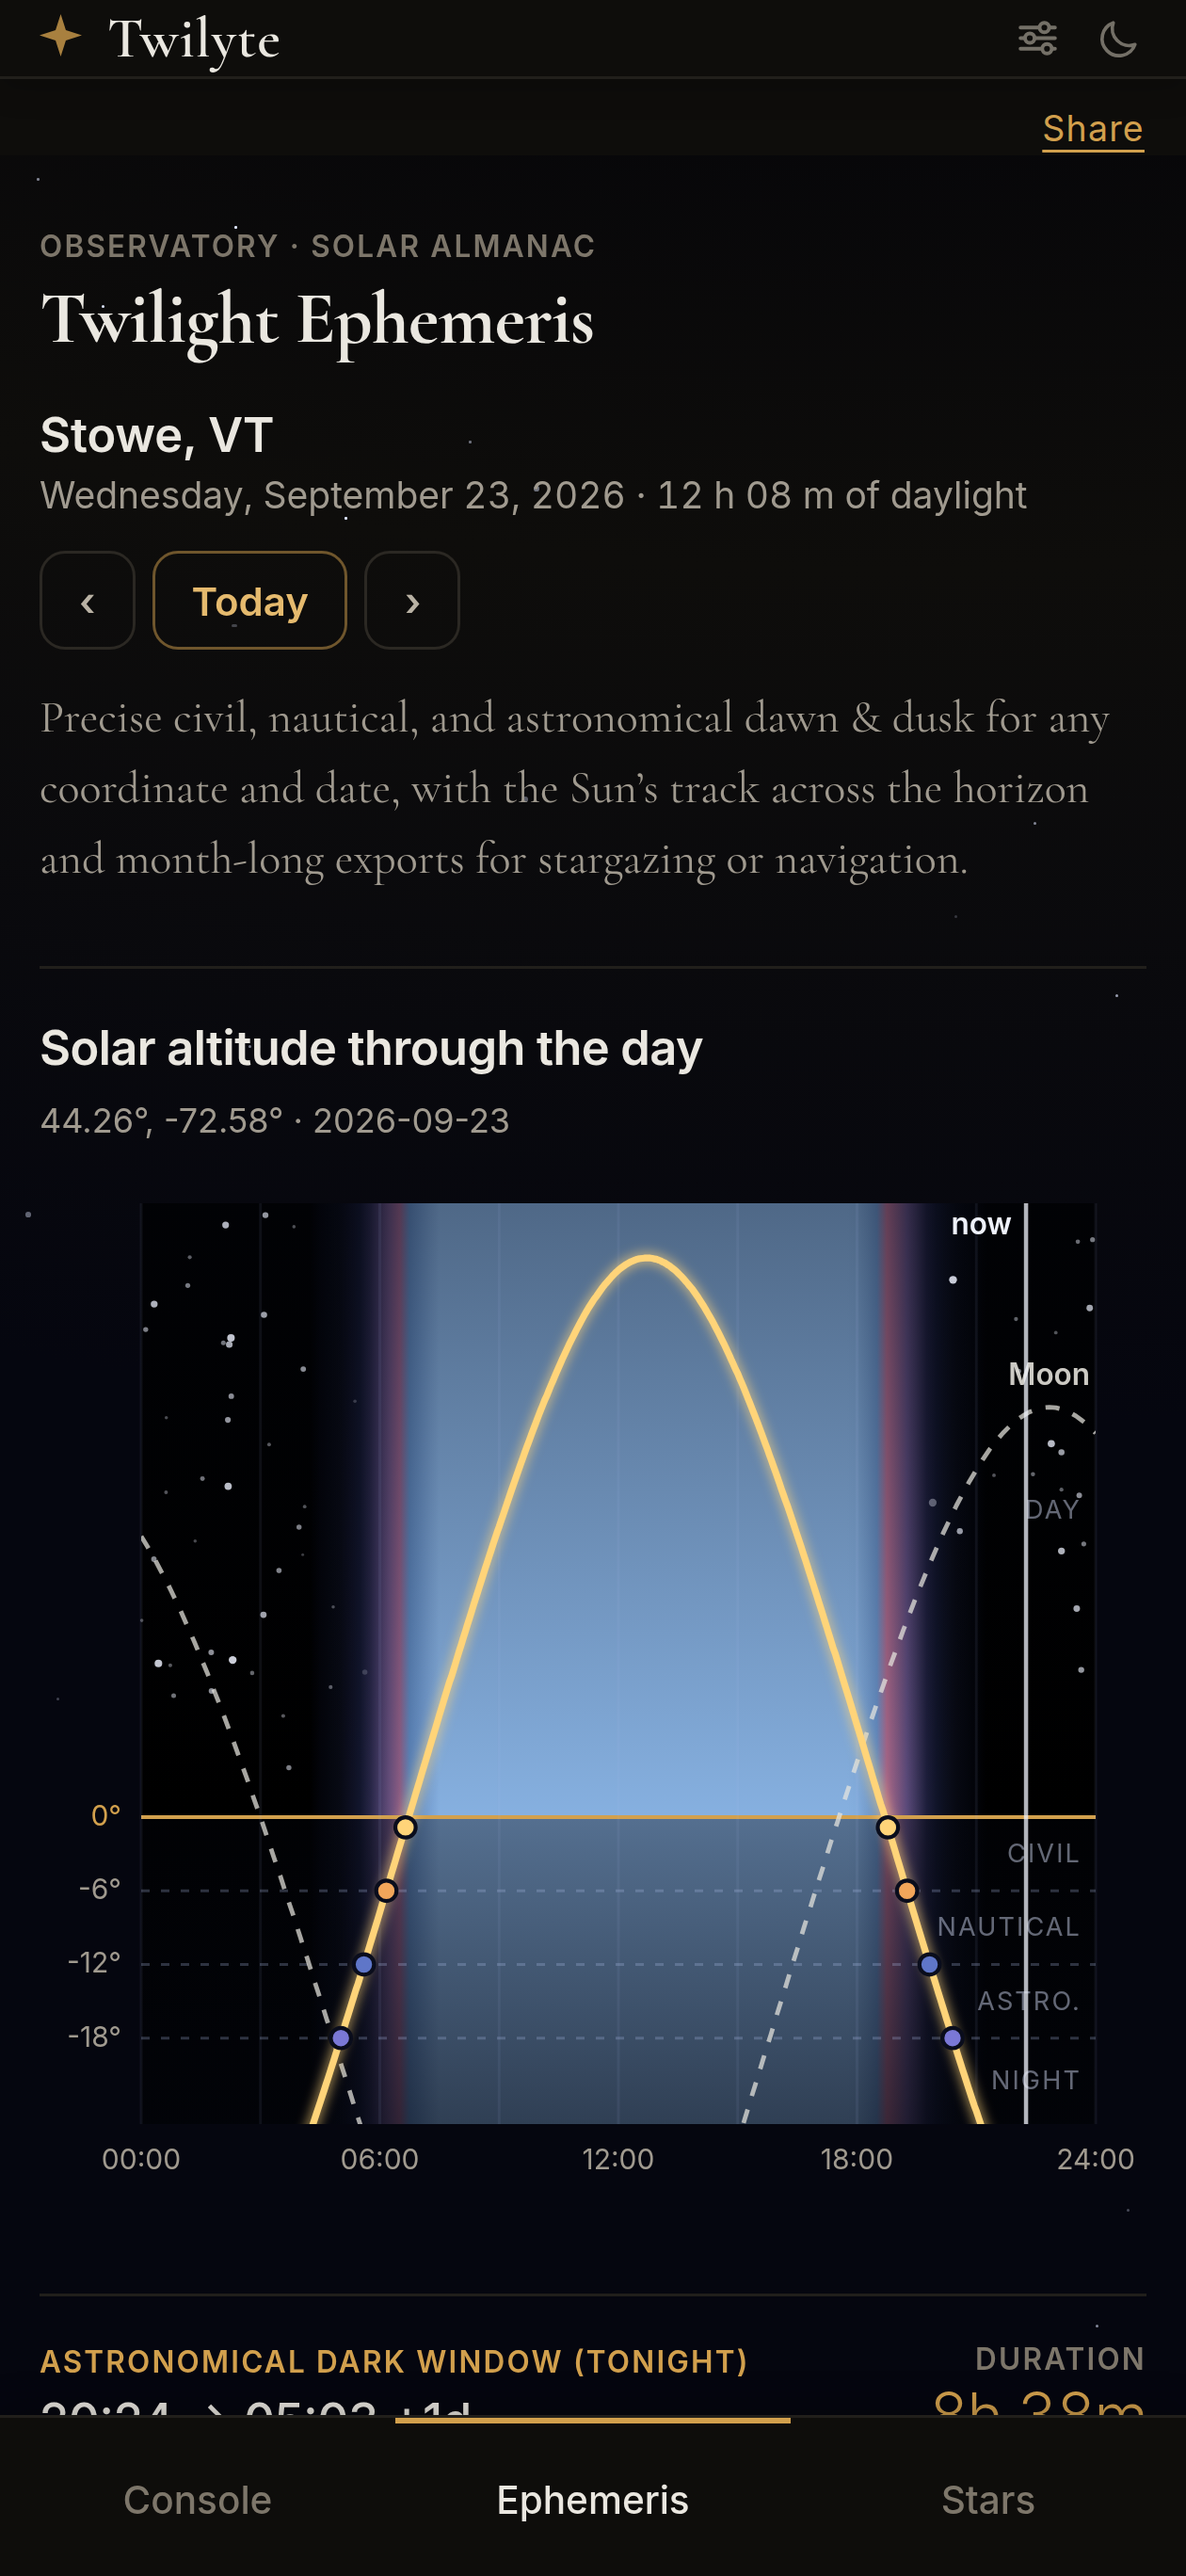
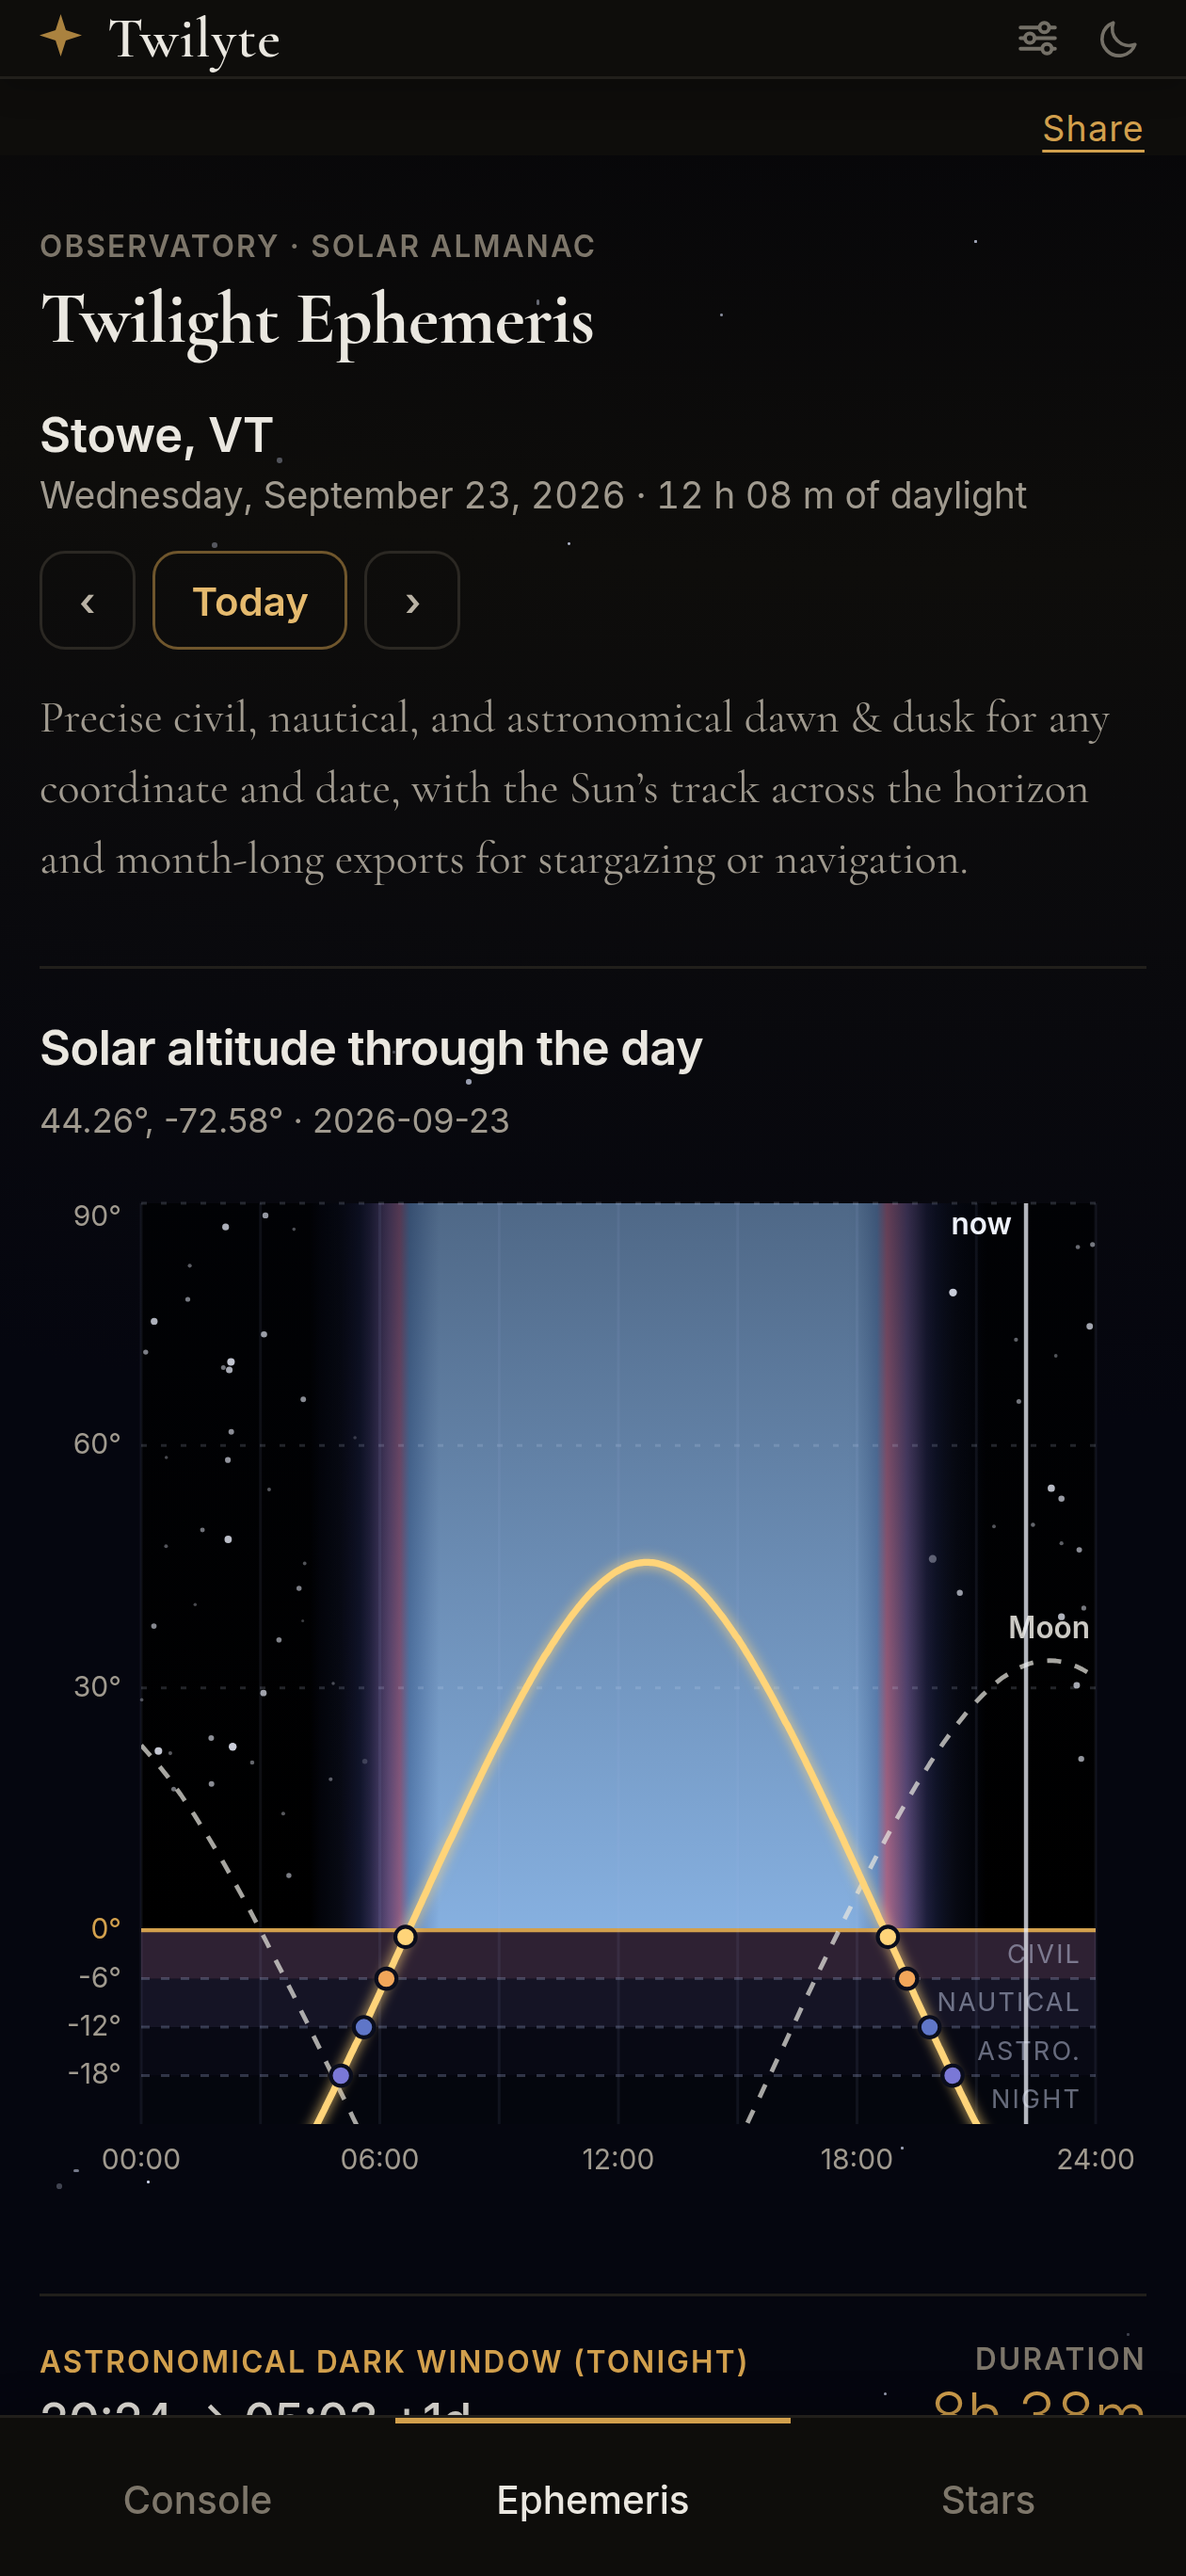
Ephemeris: put the solar altitude chart on a fixed scale
The chart's top edge was the day's highest solar altitude plus 4 degrees,
so the curve always rose to nearly touch it. A 20-degree December noon
looked as high as a 70-degree June one, and with no labels above 0 there
was nothing on the chart to say otherwise. The owner found the curve
"unusual or exaggerated", and that is the reason. Behind the curve, the
painted sky (the sky's colour at each moment of the day) filled the full
height, below the horizon too, so dawn and dusk read as tall vertical
stripes.

- The altitude scale is now fixed from -24 to 90 degrees (overhead), with
  faint 30/60/90 gridlines and labels. At Stowe, VT (44N) the equinox Sun
  now peaks visibly at about 46 degrees and the winter solstice Sun at
  about 22, where before both filled the chart.
- The painted sky stops at the horizon. Below it is dark ground, with the
  civil / nautical / astronomical / night bands faintly tinted so their
  labels name something; the separate "Day" band label is dropped, since
  the sky above the horizon is labelled by its colour and the scale.
- Nothing about the numbers changes: the curve, markers, Moon track, "now"
  line, hover readout and times are the same.

Checked in Playwright at 390 and 1280 px wide on 2026-09-23 and on
2026-12-21. 211/211 tests pass; verify-build passes. The Ephemeris store
screenshots (iPhone, iPad, Android) are retaken. BUILD and sw.js CACHE ->
v89.

Claude-Session: https://claude.ai/code/session_01N1tCvpNFXVA1dYKhp5veEo

diff --git a/index.html b/index.html
@@ -2,7 +2,7 @@
 <html lang="en">
 <head>
 <meta charset="utf-8" />
-<meta http-equiv="Content-Security-Policy" content="default-src 'self'; script-src 'self' 'sha256-LtvvfGVmfcoHWp4+TD4Lt7CBdUP12N0xoz2a4TCIlgA=' 'sha256-2WFykE7wvy9rfb6MuxdEk17+inylzAieA3wTF6WO6oc=' 'sha256-5iQLZZarga65DX0f9Sd0iyRmfHgUzB8mc6W/19dA1m0=' 'sha256-Ecsw/9Irpja/rCdVczO9GKazDgaWBiSg7CtcW5+nCgs=' 'sha256-JAy4ooiqCu/2GUX/T0oycyxLZ4vrWZ1Xwxtepo5wmOg='; style-src 'self' 'unsafe-inline'; img-src 'self' data:; font-src 'self'; connect-src 'self' https://geocoding-api.open-meteo.com https://api.open-meteo.com https://twilight-counter.ken-b39.workers.dev; manifest-src 'self'; worker-src 'self'; base-uri 'self'; form-action 'self'; object-src 'none'; upgrade-insecure-requests" />
+<meta http-equiv="Content-Security-Policy" content="default-src 'self'; script-src 'self' 'sha256-LtvvfGVmfcoHWp4+TD4Lt7CBdUP12N0xoz2a4TCIlgA=' 'sha256-2WFykE7wvy9rfb6MuxdEk17+inylzAieA3wTF6WO6oc=' 'sha256-5iQLZZarga65DX0f9Sd0iyRmfHgUzB8mc6W/19dA1m0=' 'sha256-nMKAH4cWXwed/6jUXclqRht6yX1LUjShImqOmK722mU=' 'sha256-JAy4ooiqCu/2GUX/T0oycyxLZ4vrWZ1Xwxtepo5wmOg='; style-src 'self' 'unsafe-inline'; img-src 'self' data:; font-src 'self'; connect-src 'self' https://geocoding-api.open-meteo.com https://api.open-meteo.com https://twilight-counter.ken-b39.workers.dev; manifest-src 'self'; worker-src 'self'; base-uri 'self'; form-action 'self'; object-src 'none'; upgrade-insecure-requests" />
 <meta name="viewport" content="width=device-width, initial-scale=1, viewport-fit=cover" />
 <meta name="theme-color" content="#070a14" />
 <title>Twilyte — Live Sky Dashboard & Twilight Ephemeris</title>
@@ -1595,7 +1595,7 @@ const C = {
 // Bumped with sw.js's CACHE, so a Sensor details screenshot says which build
 // it came from. It sat at v56 for weeks while the app moved on, which made
 // every field report ambiguous.
-const BUILD = "v88";
+const BUILD = "v89";
 const PAGE_BG = "radial-gradient(1200px 760px at 75% -10%, #1b2440 0%, #0a0e1e 45%, #04050d 100%)";
 function phaseOf(alt) {
   if (alt > -0.833) return "day";
@@ -4358,8 +4358,11 @@ function TwilightEphemeris({ redMode } = {}) {
     padR = 18,
     padT = 16,
     padB = 30;
-  const topAlt = curve ? Math.min(90, Math.max(12, Math.ceil(curve.maxAlt) + 4)) : 12;
-  const botAlt = -25;
+  // A fixed scale, horizon to overhead: the top used to be the day's highest
+  // Sun plus 4 degrees, so every curve nearly touched it and a 20-degree
+  // winter noon looked as high as a 70-degree summer one.
+  const topAlt = 90;
+  const botAlt = -24;
   const X = m => padL + m / 1440 * (W - padL - padR);
   const Yc = a => padT + (topAlt - a) / (topAlt - botAlt) * (H - padT - padB);
   const bandClip = (a1, a2) => {
@@ -4926,6 +4929,16 @@ function TwilightEphemeris({ redMode } = {}) {
     height: H - padT - padB
   }))), /*#__PURE__*/React.createElement("rect", { x: padL, y: padT, width: W - padL - padR, height: H - padT - padB, fill: "url(#daysky)" }),
   /*#__PURE__*/React.createElement("rect", { x: padL, y: padT, width: W - padL - padR, height: H - padT - padB, fill: "url(#dayshade)" }),
+  // Below the horizon is not sky: dark ground, with the twilight bands (how
+  // far down the Sun is) tinted faintly so their labels have something to name.
+  React.createElement("rect", { x: padL, y: Yc(0), width: W - padL - padR, height: H - padB - Yc(0), fill: "#05070e" }),
+  bands.filter(b => b.a1 <= 0).map((b, i) => {
+    const { y, h } = bandClip(b.a1, b.a2);
+    return React.createElement("rect", { key: "g" + i, x: padL, y, width: W - padL - padR, height: h, fill: b.fill, opacity: 0.32 });
+  }),
+  [30, 60, 90].map(a => React.createElement("g", { key: "u" + a },
+    React.createElement("line", { x1: padL, x2: W - padR, y1: Yc(a), y2: Yc(a), stroke: "rgba(220,228,255,.16)", strokeWidth: 1, strokeDasharray: "2 5" }),
+    React.createElement("text", { x: padL - 7, y: Yc(a) + (a === 90 ? 8 : 3), textAnchor: "end", style: { font: "10px var(--font-ui)", fill: dim } }, a, "\xB0"))),
   nightStars, [0, -6, -12, -18].map(a => /*#__PURE__*/React.createElement("g", {
     key: a
   }, /*#__PURE__*/React.createElement("line", {
@@ -4966,7 +4979,7 @@ function TwilightEphemeris({ redMode } = {}) {
       y,
       h
     } = bandClip(b.a1, b.a2);
-    if (h < 13) return null;
+    if (h < 13 || b.a1 > 0) return null;
     return /*#__PURE__*/React.createElement("text", {
       key: i,
       x: W - padR - 5,

diff --git a/sw.js b/sw.js
@@ -1,4 +1,4 @@
-const CACHE = 'twilight-v88';
+const CACHE = 'twilight-v89';
 const ASSETS = [
   '/',
   '/index.html',

diff --git a/CLAUDE.md b/CLAUDE.md
@@ -132,7 +132,12 @@ Three tabs, one `index.html`, no build step:
   `skyColors` along the day), stars where the Sun is well down, the Moon's
   track (`moonDayTrack`, parallax-corrected) and a "now" line. The CSV month
   export gives **each day its own offset** — it applied one to the whole month,
-  so every day after a DST change was an hour out. Below 560 px the chart is drawn
+  so every day after a DST change was an hour out. **The altitude scale is fixed,
+  -24° to 90°** (2026-09-23): it used to top out at the day's highest Sun
+  + 4°, so every curve nearly touched the top and a 20° winter noon looked
+  as high as a 70° summer one — the owner found it "exaggerated". Now 30°,
+  60° and 90° are labelled, the painted sky stops at the horizon, and below
+  it is dark ground with the twilight bands faintly tinted. Below 560 px the chart is drawn
   at its shown width, one viewBox unit per pixel and nearly square (it was
   820×380 scaled to ~340 px: 4 px labels, a 150 px-tall day); wide screens
   keep 820×380. City search at the top of the form uses the same
